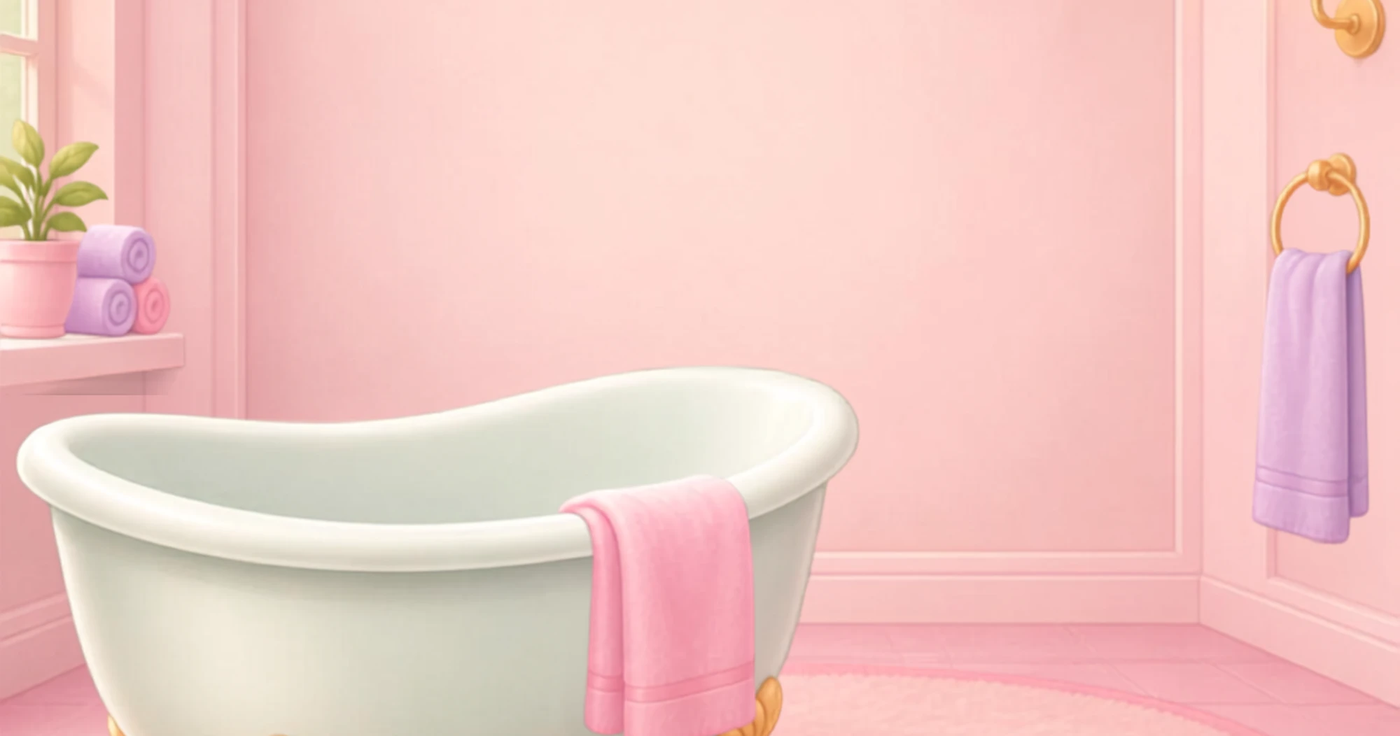
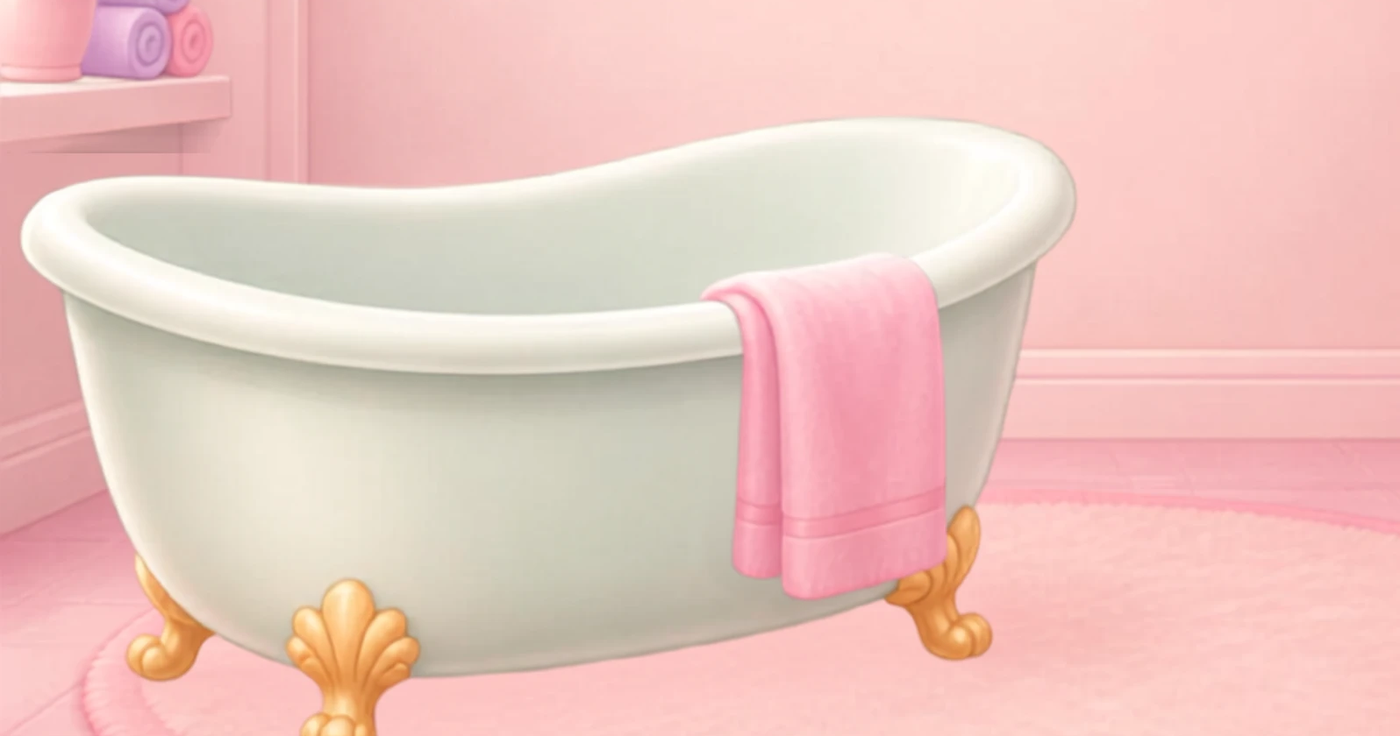
Pet Spa: center the tub in the background and seat the pet inside it
Re-crop the bathroom scene so the clawfoot tub (all four feet, full
rim, folded towels) fills and centers the frame instead of being
pushed to one side. Reposition the pet to sit inside the tub's basin
via a fixed left/top placement instead of bottom-anchored in front of
it, so it now reads as bathing in the tub rather than standing next
to it.

Claude-Session: https://claude.ai/code/session_01GAAx2iEbeCErPUQdcqnkJu

diff --git a/src/components/PetSpaGame.tsx b/src/components/PetSpaGame.tsx
@@ -236,12 +236,15 @@ export const PetSpaGame: React.FC<PetSpaGameProps> = ({ onReward }) => {
           initial={{ opacity: 0, scale: 0.94 }}
           animate={{ opacity: 1, scale: 1 }}
           transition={{ ...spring, delay: 0.05 }}
-          className="relative flex-1 h-[340px] sm:h-[380px] rounded-[40px] border-4 border-white/80 glow-pink overflow-hidden flex items-end justify-center bg-cover bg-center"
+          className="relative flex-1 h-[340px] sm:h-[380px] rounded-[40px] border-4 border-white/80 glow-pink overflow-hidden bg-cover bg-center"
           style={{ backgroundImage: "url('art/spa-bg-bathroom.png')" }}
         >
           <div className="absolute inset-0 bg-white/10" />
 
-          {/* Pet — tap/dab it with whichever tool is "in hand" */}
+          {/* Pet — nestled inside the tub basin. Outer div handles the fixed
+              left/top-centered placement so motion's own transform (for the
+              scale/hover/tap animation below) doesn't clobber it. */}
+          <div className="absolute z-10" style={{ left: '38%', top: '58%', transform: 'translate(-50%, -50%)' }}>
           <motion.button
             id="spa-pet-stage"
             onPointerDown={handlePetTouch}
@@ -249,7 +252,7 @@ export const PetSpaGame: React.FC<PetSpaGameProps> = ({ onReward }) => {
             transition={spring}
             whileHover={{ scale: 1.06 }}
             whileTap={{ scale: 0.94 }}
-            className={`relative z-10 mb-6 w-40 h-40 sm:w-48 sm:h-48 ${activeStep ? 'cursor-crosshair' : 'cursor-pointer'}`}
+            className={`relative block w-32 h-32 sm:w-40 sm:h-40 ${activeStep ? 'cursor-crosshair' : 'cursor-pointer'}`}
             title={selectedPet.name}
           >
             <motion.div key={wiggleTick} initial={{ rotate: 0 }} animate={{ rotate: [0, -9, 8, -5, 4, 0] }} transition={{ duration: 0.5 }}>
@@ -337,6 +340,7 @@ export const PetSpaGame: React.FC<PetSpaGameProps> = ({ onReward }) => {
               />
             )}
           </motion.button>
+          </div>
 
           {/* "Squeaky clean" badge */}
           <AnimatePresence>
